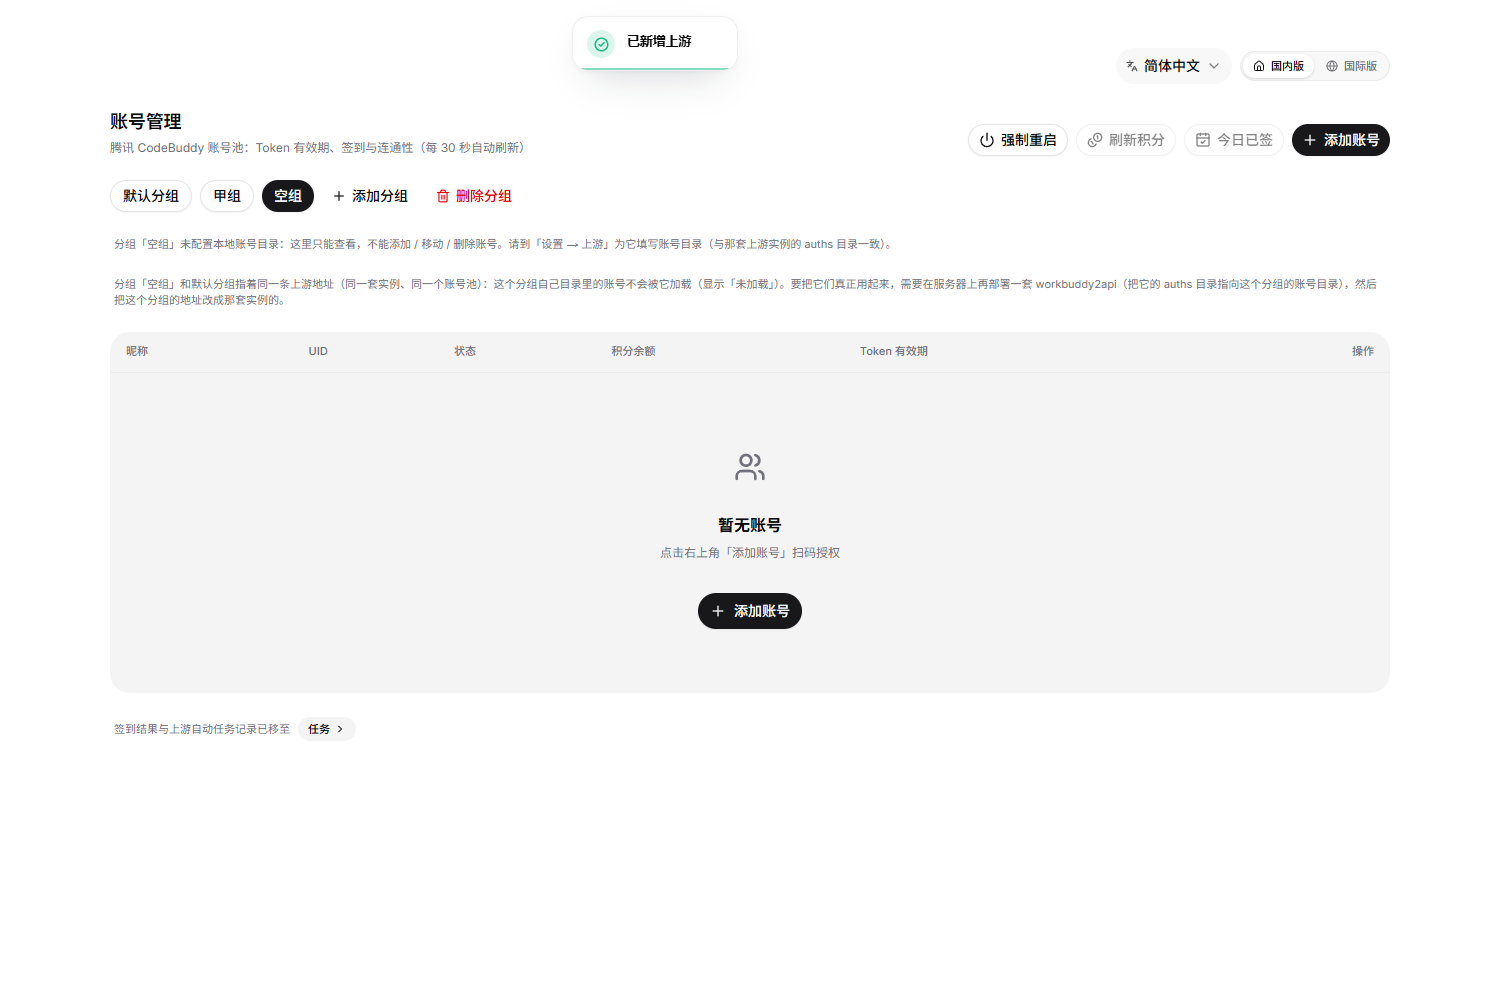
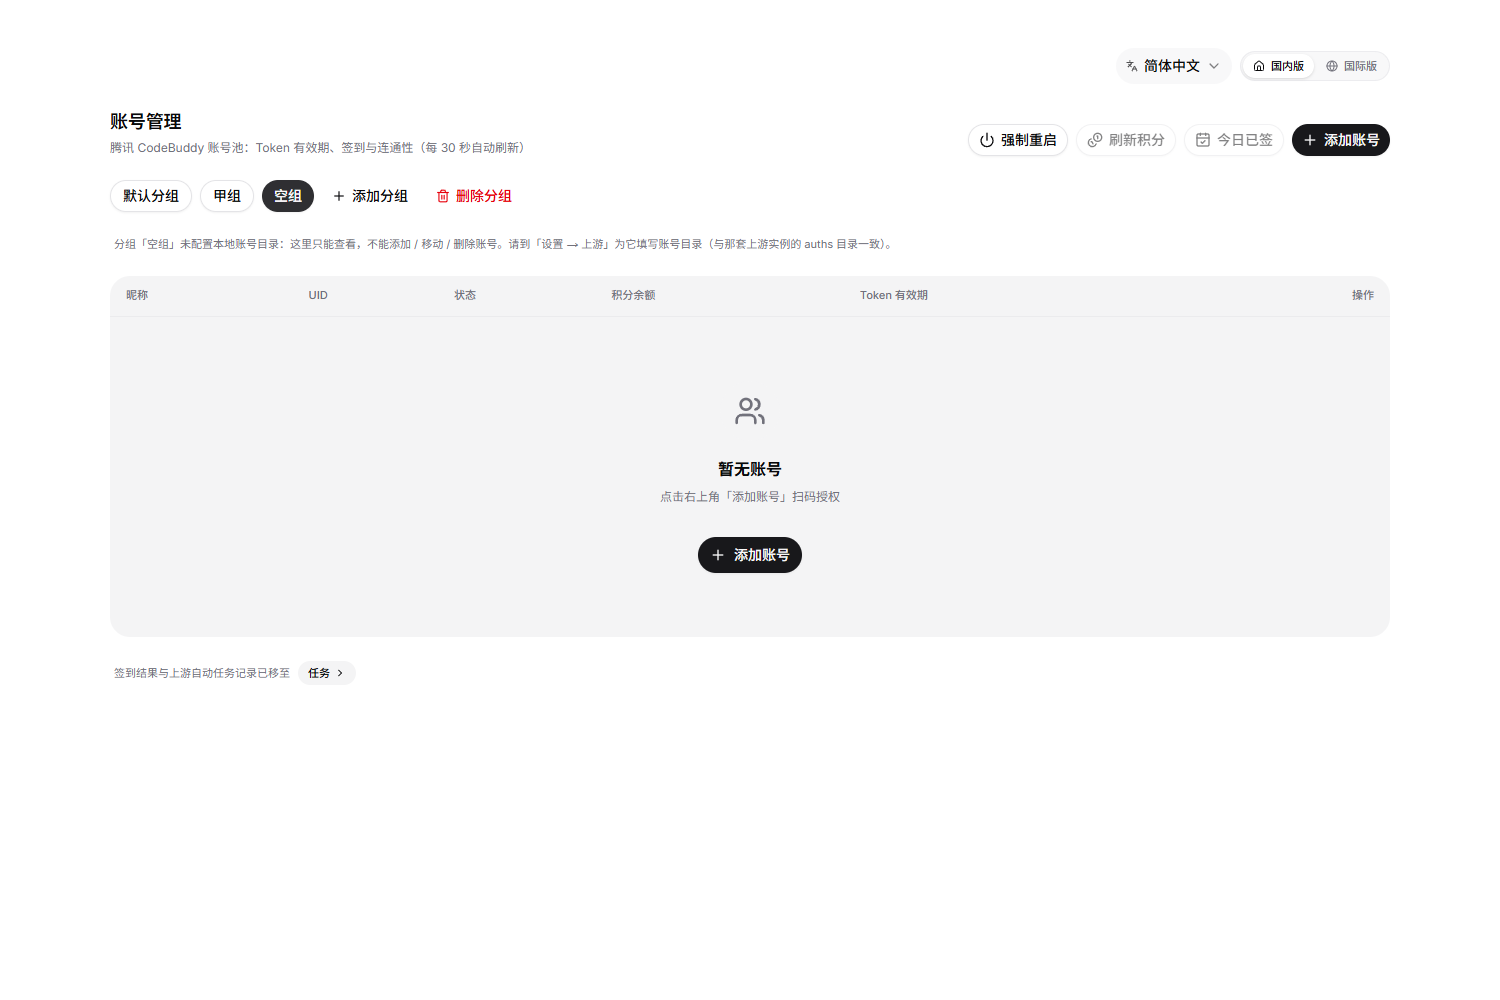
feat(accounts): 添加分组只填名称——其余字段不再显示；去掉「共用实例」提示

diff --git a/web/components/common/upstreams/UpstreamFormDialog.tsx b/web/components/common/upstreams/UpstreamFormDialog.tsx
@@ -8,11 +8,14 @@
  * 两份拷贝会漂移，而这里每个字段都直接影响路由行为（地址错了请求打错地方、
  * 目录错了账号管到别的组去）。
  *
- * 新增时的**建议值**（用户反馈：不想手填一堆）：
- *   · 上游地址默认带出「默认分组」的地址；
+ * **账号页的入口用 `simple` 模式：只显示名称一个字段**——地址与账号目录的默认值
+ * 静默带出（地址 = 默认分组的、目录 = 默认目录同级 + 名称后缀），要细调到
+ * 「设置 → 上游」。用户反馈：添加分组只想填个名字。
+ *
+ * 新增时的**建议值**：
+ *   · 上游地址默认带出「默认分组」的地址（同址 = 与默认分组共用实例；
+ *     api_key 留空时服务端自动沿用默认那把，见 server/upstreamsvc.forward_api_key）；
  *   · 账号目录默认带出默认分组目录的同级路径（跟随名称变化，手动改过就不再跟）。
- * 两者都只是**表单初值**，提交前始终由用户确认；地址若最终与默认分组相同，
- * 表单里会明确提示「共用同一套实例、搬进来的账号不会被实际使用」。
  *
  * 编辑时**不回填明文 api_key**（接口只回脱敏值，见 routers/upstreams.py）：
  * 留空 = 不修改。
@@ -58,11 +61,6 @@ const emptyForm: FormState = {
   container: '',
 };
 
-/** 去掉末尾斜杠，便于比较两个地址是否同一套实例 */
-function trimUrl(url: string): string {
-  return url.trim().replace(/\/+$/, '');
-}
-
 /**
  * 给分组建议一个账号目录：默认分组目录的同级、加名称后缀。
  *
@@ -83,6 +81,7 @@ export function UpstreamFormDialog({
   editing,
   onSaved,
   defaultUpstream,
+  simple = false,
 }: {
   open: boolean;
   onOpenChange: (v: boolean) => void;
@@ -95,6 +94,11 @@ export function UpstreamFormDialog({
    * 只取两个字符串参与依赖，避免父组件每次刷新列表都把正在填的表单重置掉。
    */
   defaultUpstream?: UpstreamEndpoint | null;
+  /**
+   * true = 极简模式（账号页「添加分组」）：**只显示名称**，其余字段不出现，
+   * 用默认值提交（地址 = 默认分组、账号目录 = 建议路径）。
+   */
+  simple?: boolean;
 }) {
   const t = useT();
   const [form, setForm] = useState<FormState>(emptyForm);
@@ -132,15 +136,19 @@ export function UpstreamFormDialog({
 
   async function submit() {
     if (busy) return;
-    if (!form.name.trim() || !form.base_url.trim()) {
+    // simple 模式下列表可能还没加载完（默认分组行未就绪）：地址兜底再校验，
+    // 免得「只填了名称」却在保存时才报「地址不能为空」。
+    const baseUrl = form.base_url.trim() || (simple ? defaultBaseUrl : '');
+    if (!form.name.trim() || !baseUrl) {
       notify.err(t('upstreams.nameUrlRequired'));
       return;
     }
+    const payload = {...form, base_url: baseUrl};
     setBusy(true);
     try {
       const saved = editing
-        ? await upstreamsApi.update(editing.id as number, form)
-        : await upstreamsApi.create(form);
+        ? await upstreamsApi.update(editing.id as number, payload)
+        : await upstreamsApi.create(payload);
       notify.ok(editing ? t('upstreams.updated') : t('upstreams.created'));
       onOpenChange(false);
       onSaved?.(saved);
@@ -152,14 +160,12 @@ export function UpstreamFormDialog({
     }
   }
 
-  const sameAsDefault = !!defaultBaseUrl && trimUrl(form.base_url) === trimUrl(defaultBaseUrl);
-
   return (
     <Dialog open={open} onOpenChange={onOpenChange}>
       <DialogContent className="max-w-[440px]" showCloseButton>
         <DialogHeader>
           <DialogTitle>{editing ? t('upstreams.editTitle') : t('upstreams.addTitle')}</DialogTitle>
-          <DialogDescription>{t('upstreams.formGroupHint')}</DialogDescription>
+          {!simple && <DialogDescription>{t('upstreams.formGroupHint')}</DialogDescription>}
         </DialogHeader>
         <DialogBody className="space-y-3">
           <div className="space-y-1.5">
@@ -179,6 +185,8 @@ export function UpstreamFormDialog({
               maxLength={64}
             />
           </div>
+          {!simple && (
+            <>
           <div className="space-y-1.5">
             <Label className="text-[11px] text-muted-foreground">{t('upstreams.fieldUrl')}</Label>
             <Input
@@ -190,11 +198,6 @@ export function UpstreamFormDialog({
             <p className="text-[10px] leading-4 text-muted-foreground">
               {t('upstreams.fieldUrlHint')}
             </p>
-            {sameAsDefault && (
-              <p className="text-[10px] leading-4 text-amber-600 dark:text-amber-400">
-                {t('upstreams.sharedUrlHint')}
-              </p>
-            )}
           </div>
           <div className="space-y-1.5">
             <Label className="text-[11px] text-muted-foreground">{t('upstreams.fieldKey')}</Label>
@@ -248,6 +251,8 @@ export function UpstreamFormDialog({
             <Label className="text-[11px] text-muted-foreground">{t('upstreams.fieldEnabled')}</Label>
             <Switch checked={form.enabled} onCheckedChange={(v) => setForm({...form, enabled: v})} />
           </div>
+            </>
+          )}
         </DialogBody>
         <DialogFooter>
           <Button variant="outline" className="rounded-full" onClick={() => onOpenChange(false)}>

diff --git a/web/app/(main)/accounts/page.tsx b/web/app/(main)/accounts/page.tsx
@@ -812,21 +812,6 @@ export default function AccountsPage() {
     );
   }
 
-  /**
-   * 当前分组是否与默认分组**共用同一套上游实例**（地址相同）。
-   *
-   * 这时搬进来的账号不会被任何实例加载（列表里显示「未加载」），密钥也仍然
-   * 打默认池——必须在页面上说明，否则就是「以为隔离了、其实没有」。
-   */
-  const sharedUrlGroup = (() => {
-    if (groupId == null) return null;
-    const active = groups.find((g) => g.id === groupId);
-    const dft = groups.find((g) => g.is_default);
-    if (!active || !dft || !active.base_url || !dft.base_url) return null;
-    const norm = (u: string) => u.trim().replace(/\/+$/, '');
-    return norm(active.base_url) === norm(dft.base_url) ? active : null;
-  })();
-
   return (
     <div className="flex flex-col gap-4 md:gap-6">
       <PageHeader
@@ -911,9 +896,9 @@ export default function AccountsPage() {
       />
 
       {/* 账号分组（多账号池）：默认分组 = 升级前那套（环境变量 / 上游
-          config.json）；其余分组在「设置 → 上游」里登记——一个分组 = 一套
-          独立的上游实例（自己的端口 / auths 目录 / api_key），密钥绑定分组
-          后请求只走那一组的账号。 */}
+          config.json）；「添加分组」只填名称即可（地址默认沿用默认分组的、
+          账号目录自动带出建议路径，其余字段到「设置 → 上游」再调）。
+          密钥绑定哪个分组，请求就走那一组的接入点。 */}
       <div className="flex flex-wrap items-center gap-2">
         <Button
           variant={groupId == null ? 'default' : 'outline'}
@@ -967,11 +952,6 @@ export default function AccountsPage() {
       {groupInfo && !groupInfo.manageable && groupId != null && (
         <p className="px-1 text-[11px] leading-4 text-muted-foreground">
           {t('accounts.groupNoDir', {name: groupInfo.name})}
-        </p>
-      )}
-      {sharedUrlGroup && (
-        <p className="px-1 text-[11px] leading-4 text-muted-foreground">
-          {t('accounts.groupSharedUrl', {name: sharedUrlGroup.name})}
         </p>
       )}
 
@@ -1127,6 +1107,7 @@ export default function AccountsPage() {
         onOpenChange={setGroupDialogOpen}
         editing={null}
         defaultUpstream={groups.find((g) => g.is_default) ?? null}
+        simple
         onSaved={(item) => {
           if (item && item.id != null) setGroupId(item.id);
           void load();

diff --git a/web/components/common/accounts/MoveAccountDialog.tsx b/web/components/common/accounts/MoveAccountDialog.tsx
@@ -85,17 +85,6 @@ export function MoveAccountDialog({
     return g.id !== fromGroupId;
   });
 
-  // 选中的目标是否与默认分组共用同一套实例（地址相同）：搬过去后账号不会被
-  // 实际使用（谁都没加载那个目录），必须在下手之前说清楚。
-  const norm = (u: string) => u.trim().replace(/\/+$/, '');
-  const defaultUrl = norm(groups.find((g) => g.is_default)?.base_url || '');
-  const selected = candidates.find(
-    (g) => (g.is_default ? DEFAULT_VALUE : String(g.id)) === target,
-  );
-  const selectedSharesDefault =
-    !!selected && !selected.is_default && !!defaultUrl
-    && norm(selected.base_url) === defaultUrl;
-
   return (
     <Dialog open={open} onOpenChange={onOpenChange}>
       <DialogContent className="max-w-[420px]" showCloseButton>
@@ -125,11 +114,6 @@ export function MoveAccountDialog({
                 })}
               </SelectContent>
             </Select>
-            {selectedSharesDefault && (
-              <p className="text-[10px] leading-4 text-amber-600 dark:text-amber-400">
-                {t('accounts.moveSharedWarn')}
-              </p>
-            )}
           </div>
         </DialogBody>
         <DialogFooter>

diff --git a/dev/verify_account_groups_ui.py b/dev/verify_account_groups_ui.py
@@ -7,8 +7,8 @@
      显示「未加载」，而这在界面上和真的没加载长得一模一样；
   3. 「移动到分组」把账号文件真的搬到了目标目录（源列表里消失、目标列表里出现）。
 
-脚本走一遍用户路径：默认分组 → 添加分组（填账号目录）→ 移动到分组 →
-没配目录的分组的提示。截图落在 dev/.shots-account-groups/（随 PR 一并提交）。
+脚本走一遍用户路径：默认分组 → 添加分组（只填名称）→「设置 → 上游」补实例参数 →
+移动到分组 → 没配目录的分组的提示。截图落在 dev/.shots-account-groups/（随 PR 一并提交）。
 
     python dev/verify_account_groups_ui.py
 """
@@ -152,6 +152,7 @@ def main() -> int:
             'WB_BASE': f'http://127.0.0.1:{MANAGER_PORT}',
             'WB_PASS': ADMIN_PW,
             'WB_DEFAULT_URL': f'http://127.0.0.1:{DEFAULT_UP_PORT}',
+            'WB_DEFAULT_DIR': str(default_auths),
             'WB_GROUP_URL': f'http://127.0.0.1:{GROUP_UP_PORT}',
             'WB_GROUP_KEY': GROUP_KEY,
             'WB_GROUP_DIR': str(group_auths),

diff --git a/CHANGELOG.md b/CHANGELOG.md
@@ -122,19 +122,20 @@
   那一组的账号。
 
   **一个分组 = 一套上游实例**（自己的账号目录、端口与 `api_key`）。要真正把账号池
-  分开，请在服务器上再部署一套 workbuddy2api，然后在「添加分组」里填它的地址、密钥
-  与**账号目录**——账号目录填好之后，这一组的账号就能在面板里直接管理（查看 / 加号 /
-  移动 / 删除 / 签到）。没填账号目录的分组只做密钥转发，账号页对它只读。
+  分开，请在服务器上再部署一套 workbuddy2api，然后到「设置 → 上游」把分组的地址、
+  密钥与**账号目录**改成那套实例的——账号目录填好之后，这一组的账号就能在面板里
+  直接管理（查看 / 加号 / 移动 / 删除 / 签到）。没填账号目录的分组只做密钥转发，
+  账号页对它只读。
 
   这套实例**只在服务器内部监听就可以**（如 `127.0.0.1:7865`）——**对外仍然只有
   管理器一个地址**，客户端始终只填「管理器地址 + 密钥」：密钥绑了哪个分组，请求就
   走那一组的内网实例与账号。
 
-  **添加分组只填名称也行**：上游地址默认带出默认分组的地址、账号目录默认带出建议
-  路径（同名同级），按需再改。若地址保持与默认分组一致，表单与账号页都会说明「这个
-  分组与默认分组共用同一套实例、搬进来的账号不会被实际使用」——避免「以为隔离了、
-  其实没有」。没配账号目录的分组收不了账号（移动时目标不可选），这是保护而不是限制：
-  账号文件必须有地方放，面板不猜路径。
+  **添加分组只填名称就行**：其余字段不再出现在添加弹窗里——上游地址默认沿用默认
+  分组的地址、`api_key` 留空时与默认分组同址自动沿用默认分组的钥匙（否则绑定该
+  分组的密钥一调用就会吃上游 401）、账号目录自动带出建议路径（同名同级）。要接
+  第二套实例或自定义目录，到「设置 → 上游」再改。没配账号目录的分组收不了账号
+  （移动时目标不可选），这是保护而不是限制：账号文件必须有地方放，面板不猜路径。
 
   两个细节照旧「宁可报错也不静默」：分组没配账号目录时，添加 / 移动 / 删除会**明确
   报错**，绝不悄悄落到默认分组去（那等于把号加错了池，而且看不出来）；把账号移到目标

diff --git a/README.md b/README.md
@@ -92,10 +92,10 @@
   活的，随时可以启用回来（上游版本较旧时会自动回退到「完全退出账号池」的方式，
   并在提示里说明差别）
 - **账号分组（多账号池）** —— 页面顶部按分组查看与切换账号：默认分组就是升级前那套；
-  点「添加分组」登记新的分组——**只填名称也行**（上游地址默认带出默认分组的地址，
-  账号目录默认带出建议路径）。每个分组 = 一套独立的上游实例，按需把地址、`api_key`
-  与**账号目录**改成那套实例的（账号目录一致才能在面板里管理这一组的账号；地址保持
-  与默认分组一致时页面上会说明「共用同一套实例、搬进来的账号不会被实际使用」）。
+  点「添加分组」——**只填名称就行**（其余字段不再出现：上游地址默认沿用默认分组的、
+  `api_key` 留空时与默认分组同址自动沿用默认分组的钥匙、账号目录自动带出建议路径）。
+  要接第二套实例或自定义目录，到「设置 → 上游」把地址、`api_key` 与**账号目录**
+  改成那套实例的（账号目录一致才能在面板里管理这一组的账号）。
   - **对外只有一个地址就够了**：客户端始终只填「管理器地址 + 密钥」；每个分组的
     上游实例只在服务器内部监听（如默认组 `127.0.0.1:7863`、乙组 `127.0.0.1:7865`），
     不占公网端口、也不需要额外域名。第二套实例的起法与第一套相同：把上游目录复制
